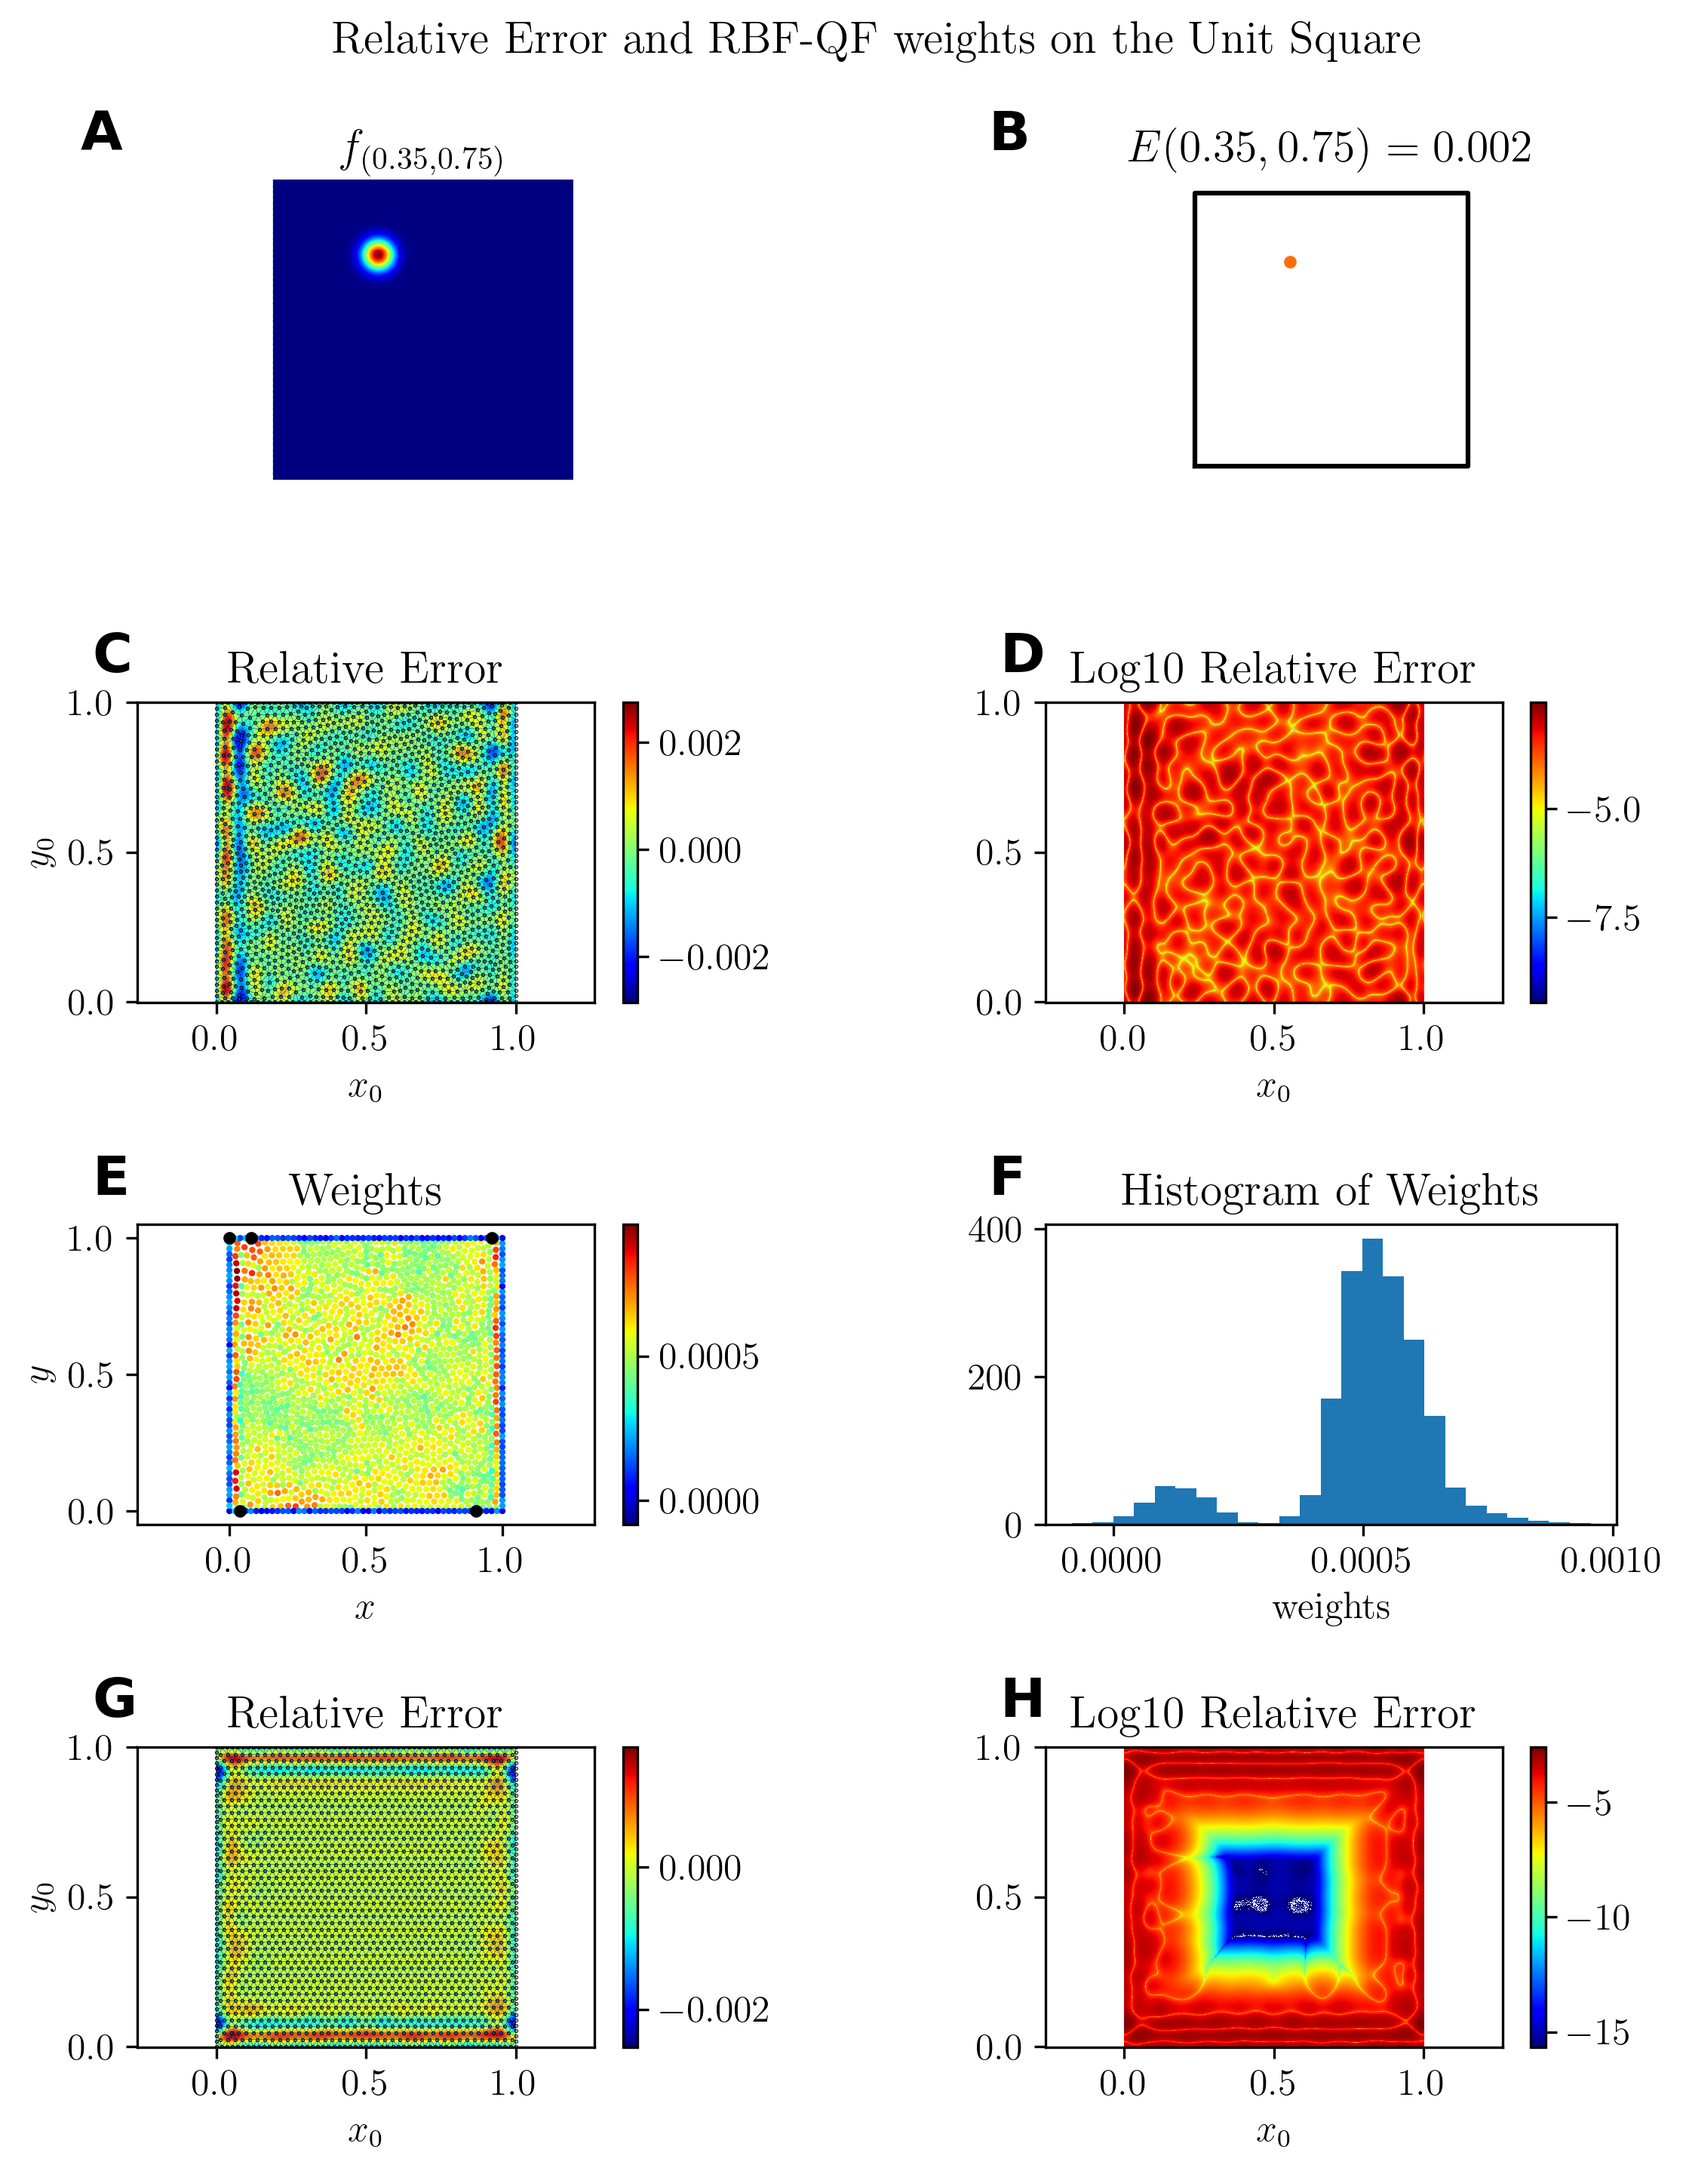
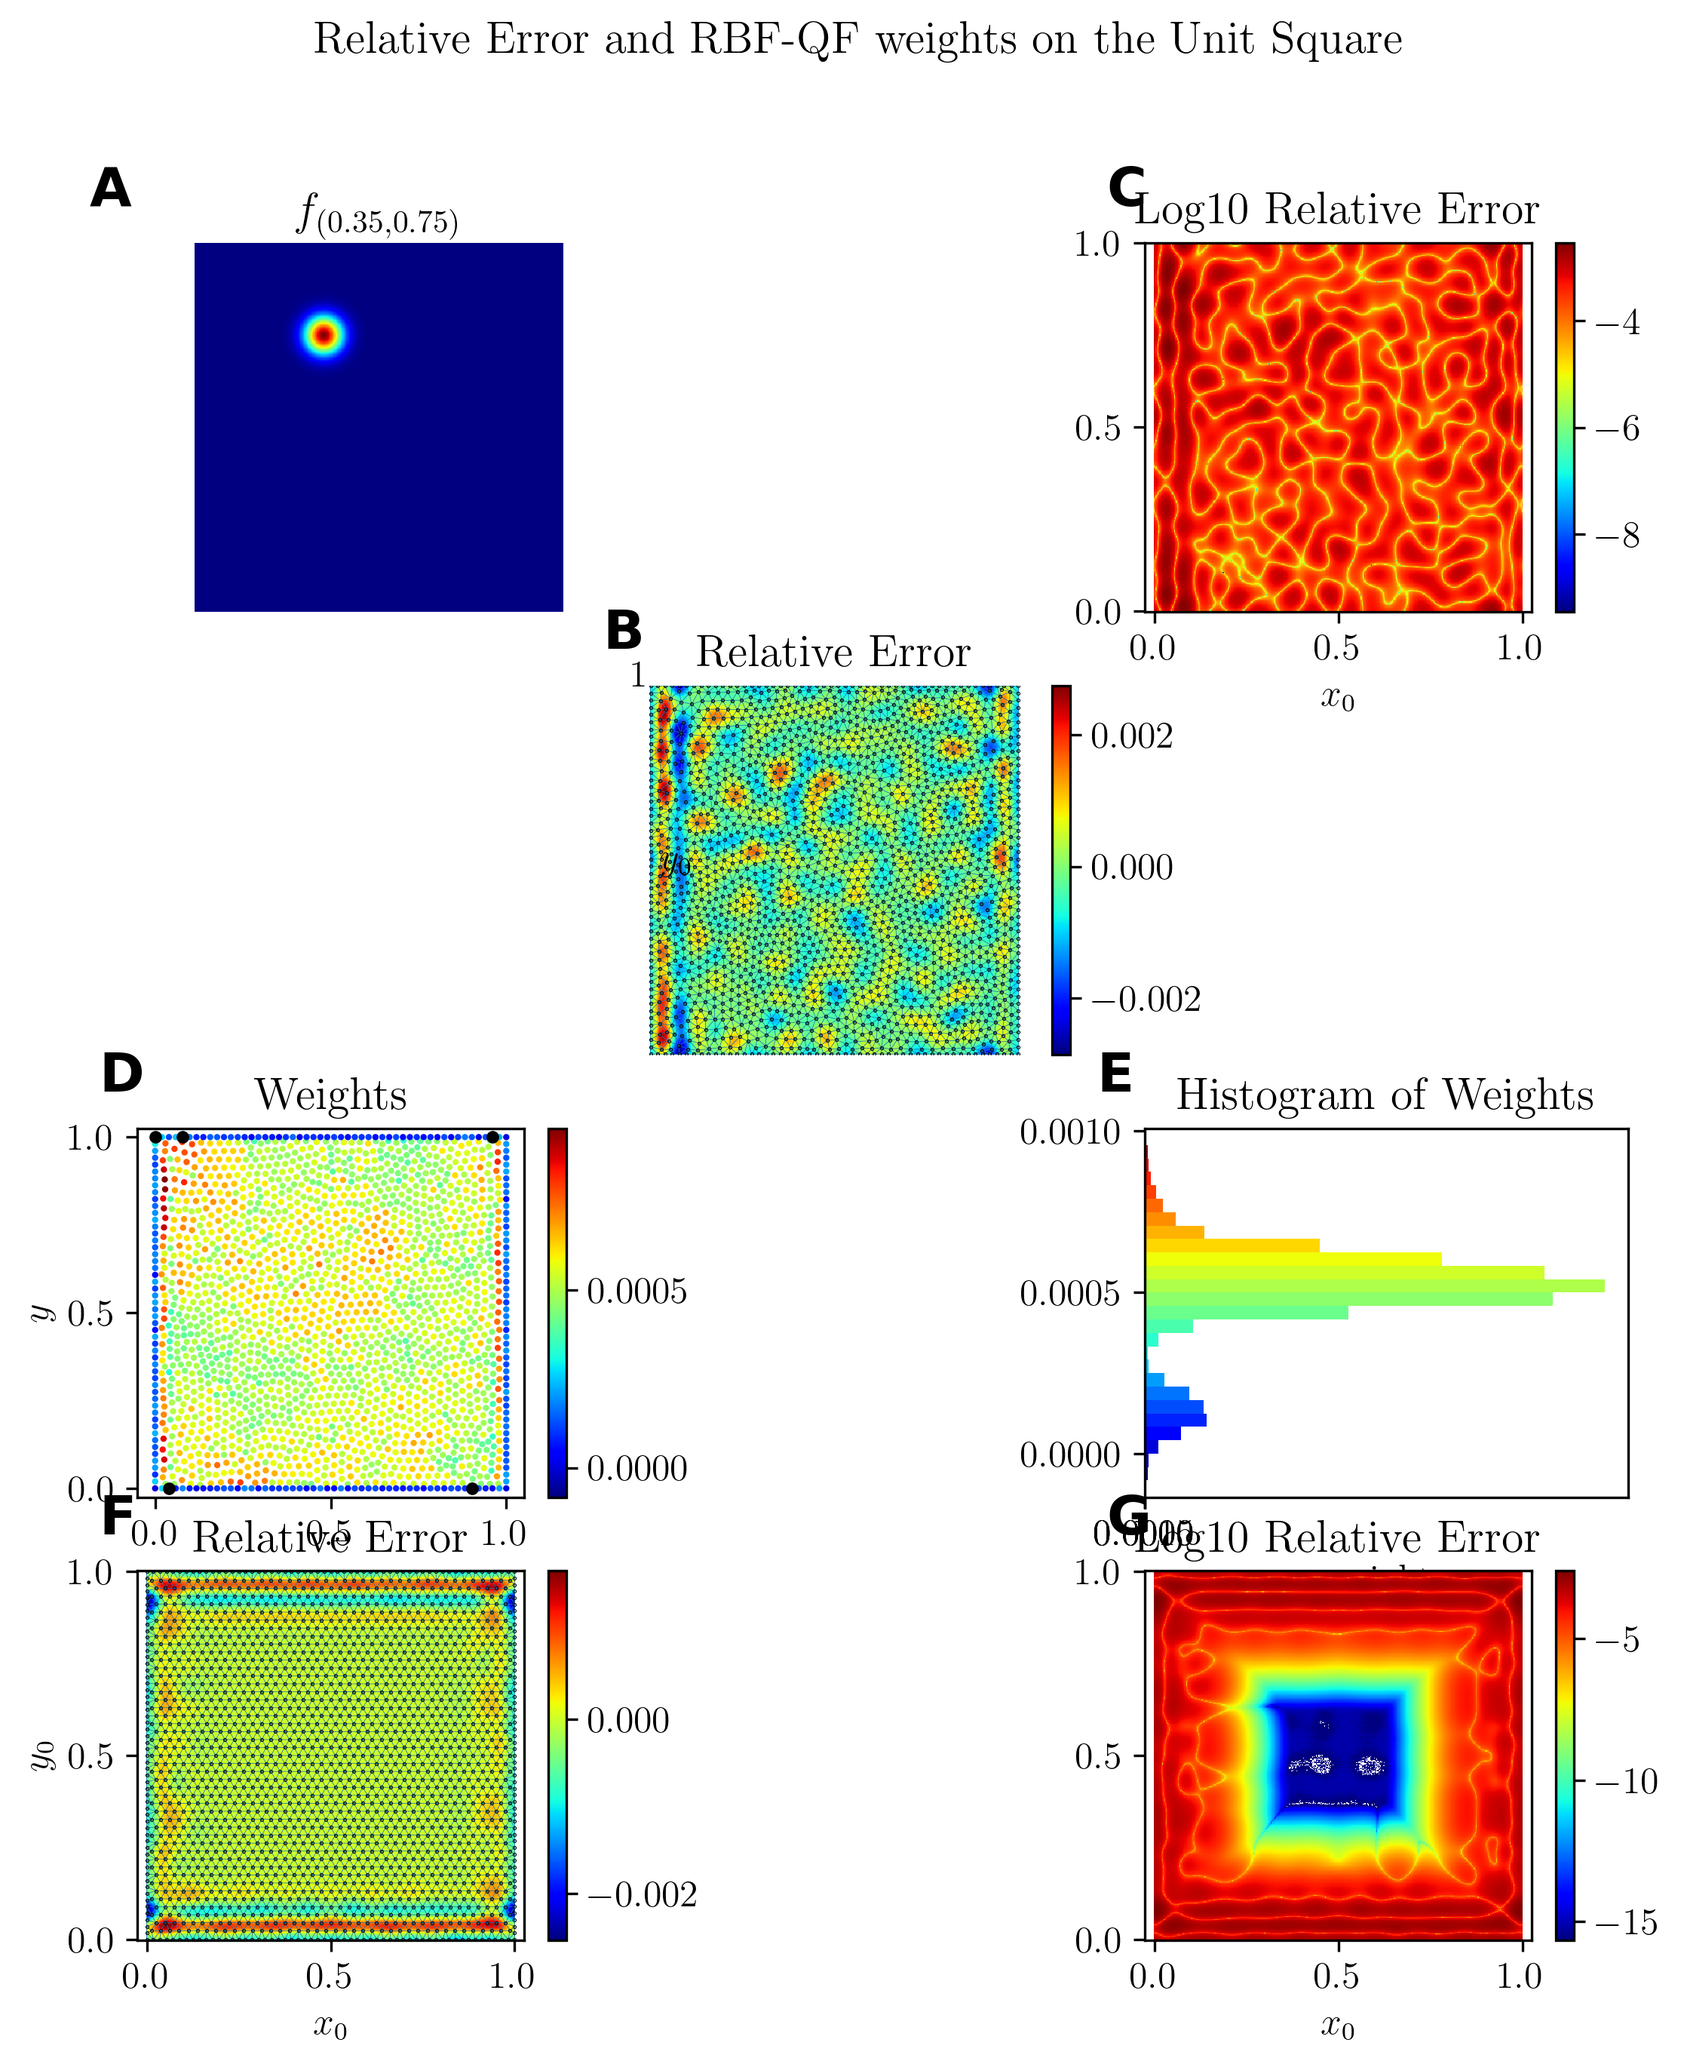
working on figure

diff --git a/figures/flat_quad_space.py b/figures/flat_quad_space.py
@@ -3,6 +3,7 @@ Run convergence Tests for number of points
 """
 import matplotlib.pyplot as plt
 from matplotlib.pyplot import colormaps
+from matplotlib.colors import Normalize
 import matplotlib.gridspec as gs
 import numpy as np
 from rbf.quadrature import LocalQuad
@@ -73,11 +74,12 @@ print(f"max_error={np.max(np.abs(err_hex)):.3E}")
 print("Generating Figure.")
 figsize = (8.5, 12)
 fig = plt.figure("quad_space_error", figsize=figsize)
-grid = gs.GridSpec(4, 11)
-lcol = slice(1, 5)
-rcol = slice(6, 10)
+grid = gs.GridSpec(4, 12)
+lcol = slice(0, 4)
+mcol = slice(4, 8)
+rcol = slice(8, 12)
 
-# Panel A
+# panel A
 center = np.array([0.35, 0.75])
 exact = bump.integrate()
 approx = sum(
@@ -99,23 +101,8 @@ ax_test_func.axis("off")
 # ax_test_func.set_ylabel("$y$")
 # ax_test_func.yticks([])
 
-# Panel B
-ax_point_error = fig.add_subplot(grid[0, rcol])
-cmap = colormaps["jet"]
-min_err = np.min(err_rand)
-max_err = np.max(err_rand)
-color = cmap((error - min_err) / (max_err - min_err))
-plt.plot(*center, ".", color=color)
-plt.plot([0, 1, 1, 0, 0], [0, 0, 1, 1, 0], "k-")
-plt.title(f"$E{tuple(center)}={error:.3f}$")
-ax_point_error.set_xlabel("$x_0$")
-ax_point_error.set_ylabel("$y_0$")
-plt.axis("equal")
-plt.axis("off")
-
-
-# Panel C
-ax_rand_space = fig.add_subplot(grid[1, lcol])
+# panel B
+ax_rand_space = fig.add_subplot(grid[0, mcol])
 error_plot = ax_rand_space.pcolormesh(X, Y, err_rand, cmap="jet")
 ax_rand_space.triplot(*rand_points.T, qf_rand.mesh.simplices, linewidth=0.2)
 # ax_rand_space.plot(*center, "k*")
@@ -128,8 +115,13 @@ ax_rand_space.set_title("Relative Error")
 ax_rand_space.set_xlabel("$x_0$")
 ax_rand_space.set_ylabel("$y_0$")
 
-# Panel D
-ax_rand_log_space = fig.add_subplot(grid[1, rcol])
+ax_rand_space.axis("off")
+ax_rand_space.text(-0.05, 1.0, "1")
+ax_rand_space.text(-0.1, 0.5, "$y_0$", transform=ax_rand_space.transAxes)
+ax_rand_space.text(0.5, -0.1, "$x_0$", transform=ax_rand_space.transAxes)
+
+# Panel C
+ax_rand_log_space = fig.add_subplot(grid[0, rcol])
 log_error_plot = ax_rand_log_space.pcolormesh(
     X, Y, np.log10(np.abs(err_rand)), cmap="jet"
 )
@@ -159,7 +151,12 @@ ax_weights.set_ylabel("$y$")
 
 # Panel F
 ax_hist = fig.add_subplot(grid[2, rcol])
-ax_hist.hist(qf_rand.weights, bins=25)
+_, bins, patches = ax_hist.hist(qf_rand.weights, bins=25, orientation="horizontal")
+cnorm = Normalize(np.min(qf_rand.weights), np.max(qf_rand.weights))
+for val, patch in zip(bins, patches):
+    patch.set_facecolor(plt.cm.jet(cnorm(val)))
+
+
 ax_hist.set_title("Histogram of Weights")
 ax_hist.set_xlabel("weights")
 ax_hist.set_xticks([0, 0.0005, 0.001])
@@ -201,7 +198,6 @@ subplot_label_font = {
 for ax, label in zip(
     [
         ax_test_func,
-        ax_point_error,
         ax_rand_space,
         ax_rand_log_space,
         ax_weights,
